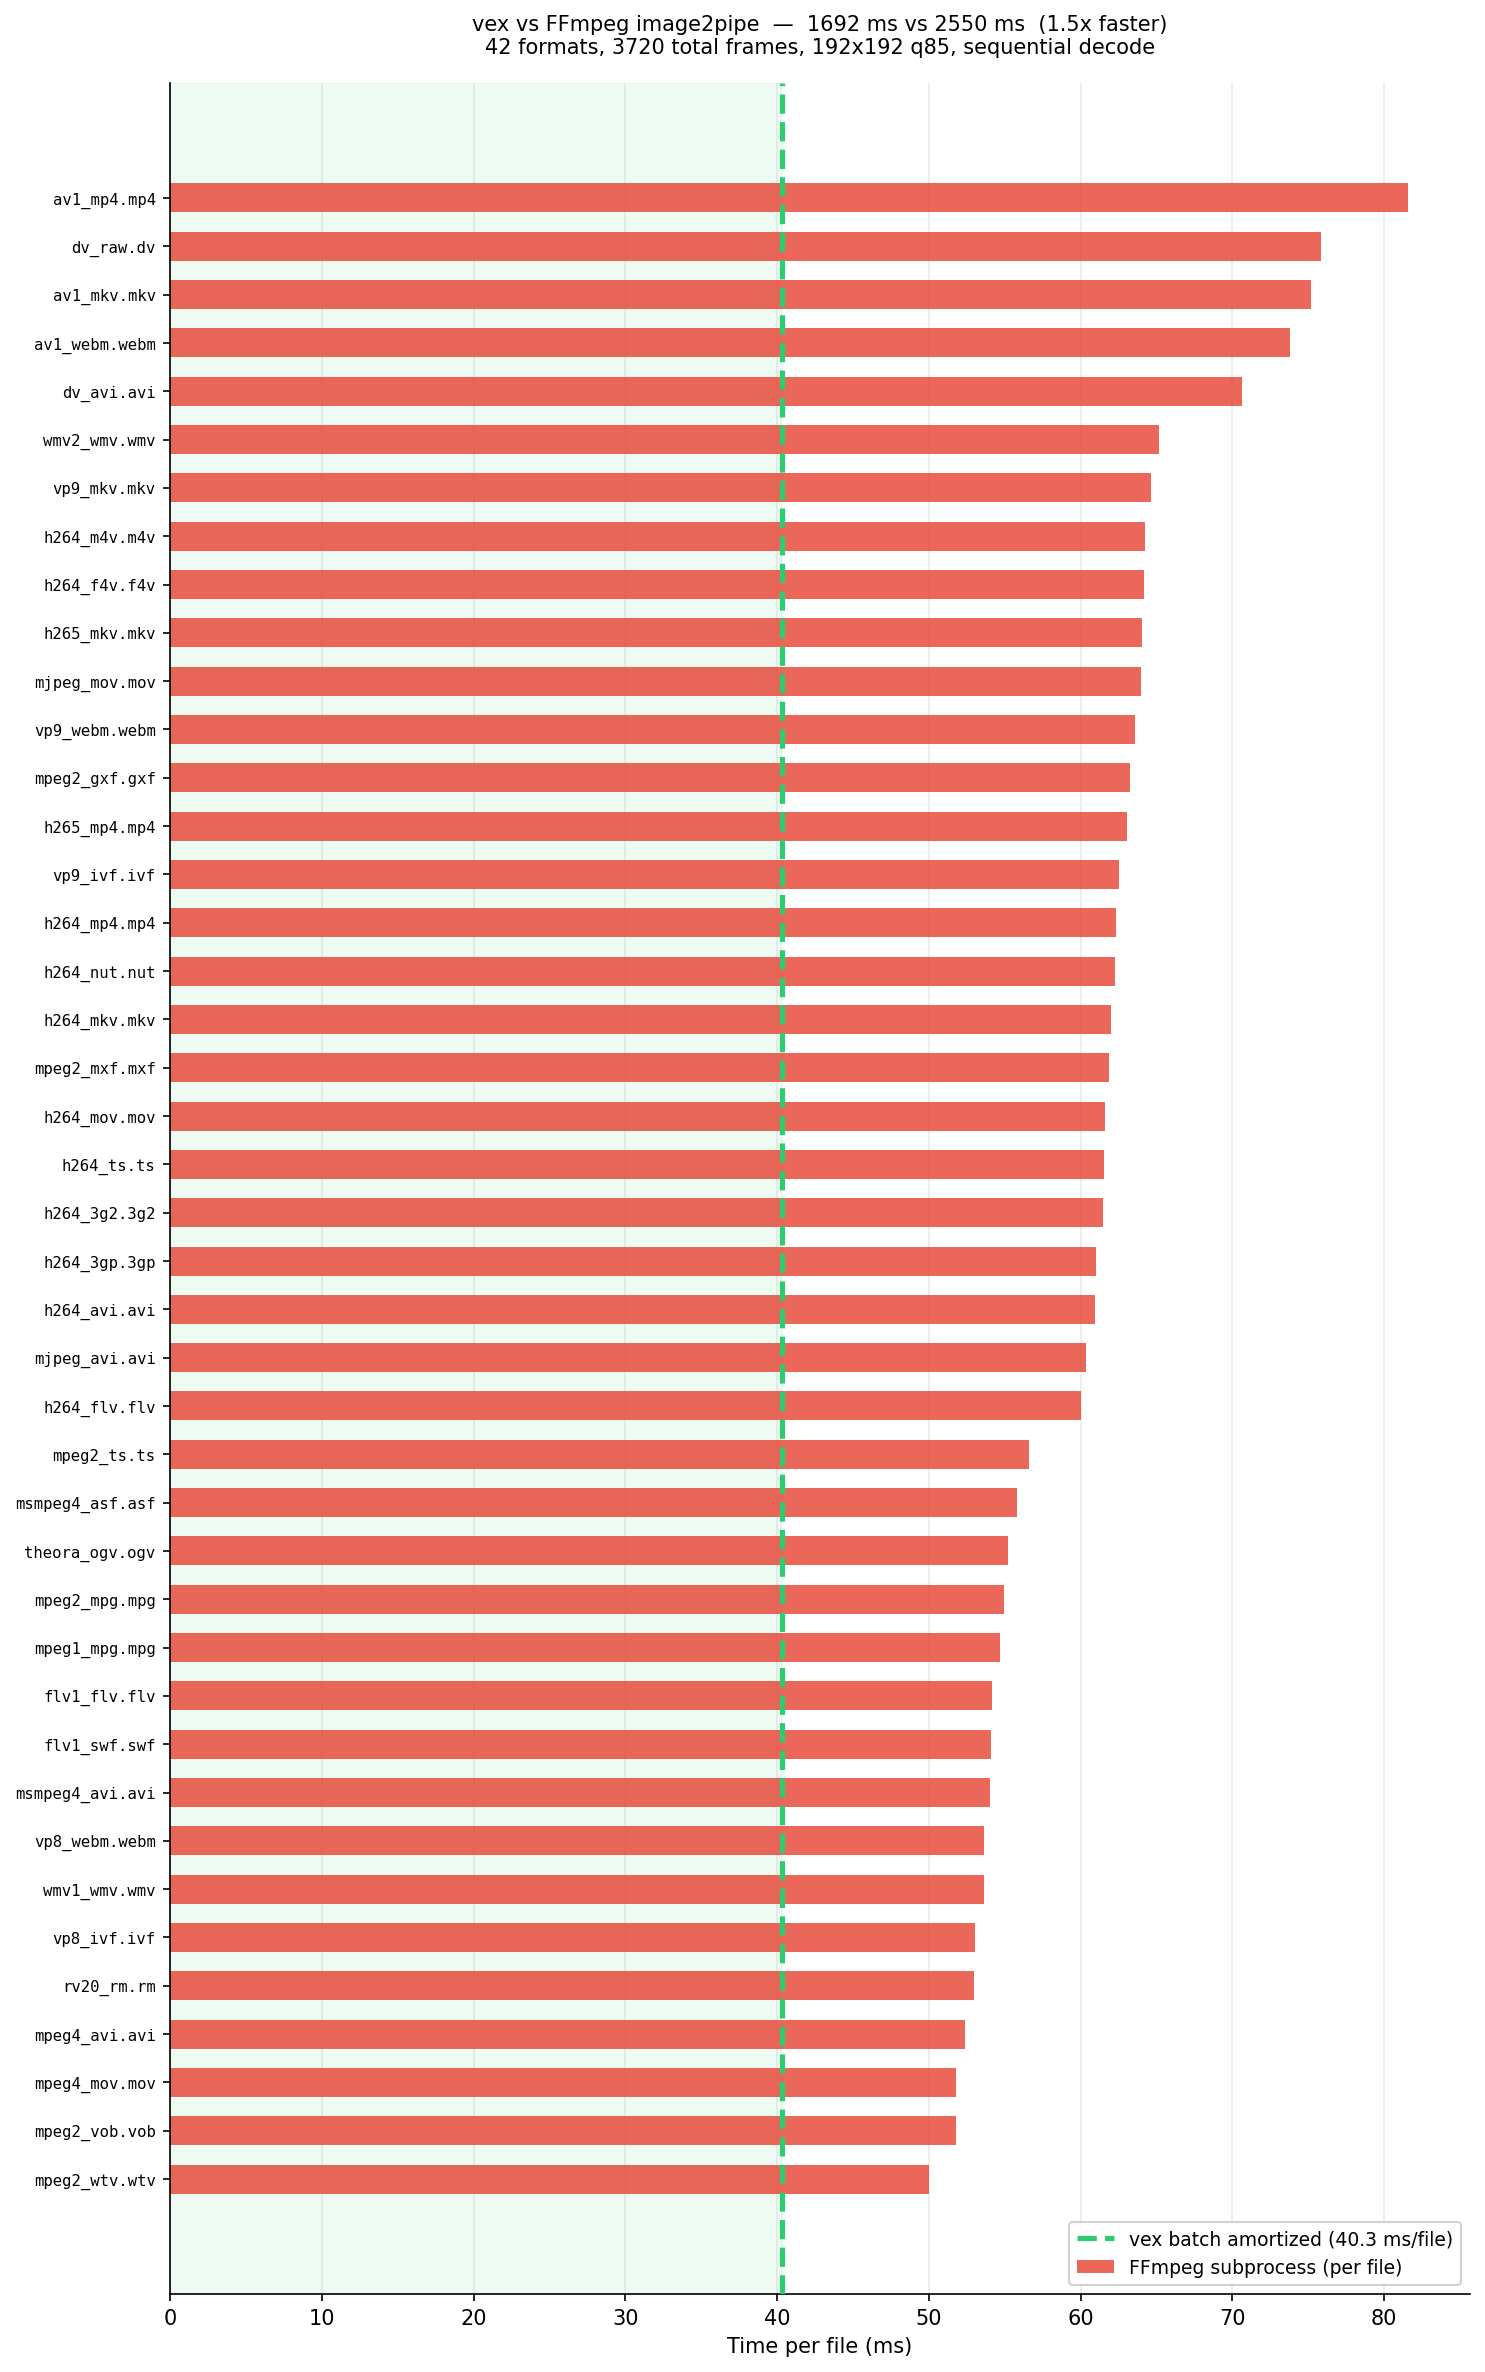
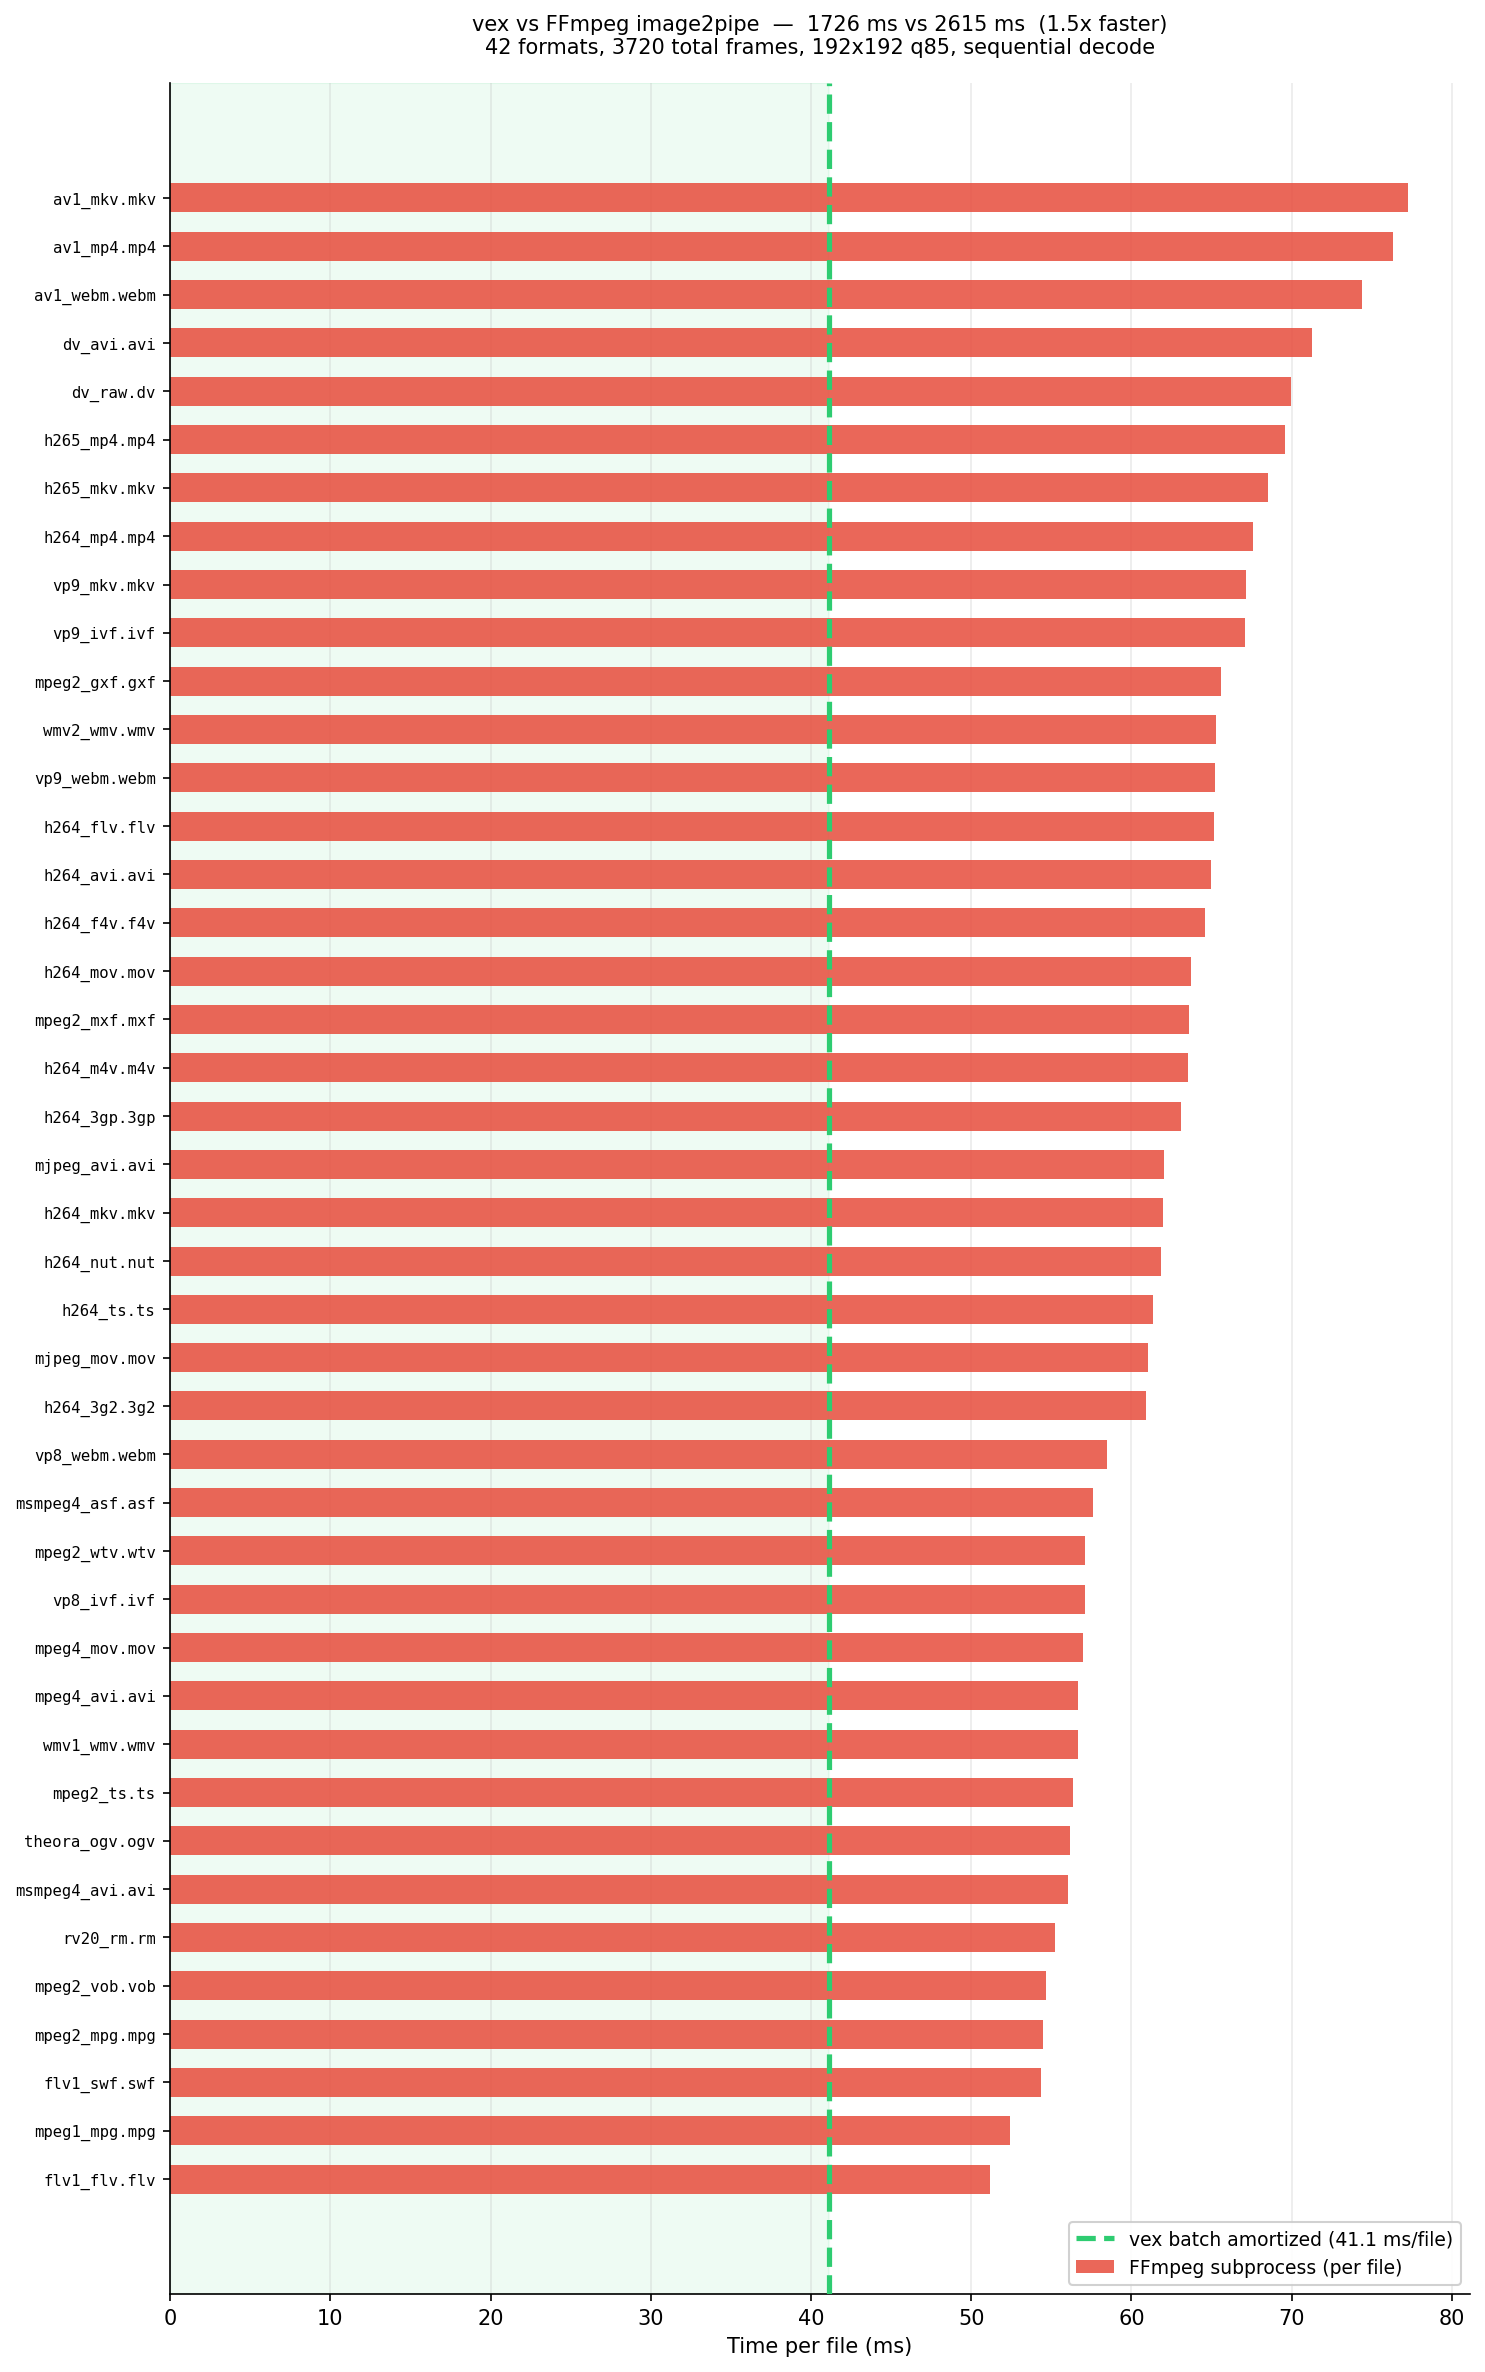
micro ops

diff --git a/python/vex/__init__.py b/python/vex/__init__.py
@@ -35,9 +35,9 @@ class LevelConfig:
 
     Args:
         width:   Target width in pixels.  Use ``0`` (or :data:`NATIVE`) to
-                 keep the video's native width.  Defaults to ``192``.
+                 keep the video's native width.  Defaults to ``NATIVE`` (0).
         height:  Target height in pixels.  Use ``0`` (or :data:`NATIVE`) to
-                 keep the video's native height.  Defaults to ``192``.
+                 keep the video's native height.  Defaults to ``NATIVE`` (0).
         quality: JPEG quality, 1 -- 100.  Passed directly to libjpeg-turbo.
                  Rough guide:
 
@@ -49,7 +49,7 @@ class LevelConfig:
                    artifacts.
                  * **1 -- 19**   : very low — only useful for tiny sprites.
 
-                 Defaults to ``85``.
+                 Defaults to ``100``.
         output:  ``"jpeg_stream"`` — one concatenated JPEG blob per source
                  file (random-access via offset table).
                  ``"sprite_atlas"`` — all files composited into a single
@@ -64,9 +64,9 @@ class LevelConfig:
                        Only used when ``output="sprite_atlas"``.
                        Defaults to ``10``.
     """
-    width: int = 192
-    height: int = 192
-    quality: int = 85
+    width: int = NATIVE
+    height: int = NATIVE
+    quality: int = 100
     output: str = "jpeg_stream"
     in_memory: bool = True
     cache_path: Optional[str] = None
@@ -652,9 +652,10 @@ def batch_decode(
     Args:
         paths:  List of video file paths (mp4, mkv, avi, ts, flv, ...).
         levels: One or more :class:`LevelConfig` describing the output
-                resolutions / formats.  Defaults to a single 192 x 192
-                JPEG stream at quality 85.  Multiple levels produce
-                multiple output resolutions from a single decode pass.
+                resolutions / formats.  Defaults to a single
+                native-resolution JPEG stream at quality 100.  Multiple
+                levels produce multiple output resolutions from a single
+                decode pass.
         max_threads:    Maximum worker threads.  Clamped to
                         ``min(max_threads, len(paths), cpu_count)``.
         keyframes_only: If ``True``, only I-frames are decoded.

diff --git a/tests/test_basic.py b/tests/test_basic.py
@@ -43,9 +43,9 @@ class TestLevelConfig:
 
     def test_level_config_defaults(self):
         cfg = LevelConfig()
-        assert cfg.width == 192
-        assert cfg.height == 192
-        assert cfg.quality == 85
+        assert cfg.width == NATIVE
+        assert cfg.height == NATIVE
+        assert cfg.quality == 100
         assert cfg.output == "jpeg_stream"
         assert cfg.in_memory is True
         assert cfg.cache_path is None
@@ -172,7 +172,11 @@ class TestKeyframeDecode:
     @pytest.mark.parametrize("filename", _FORMAT_FIXTURES)
     def test_keyframe_decode(self, filename):
         path = _fixture_path("formats", filename)
-        results, metrics = batch_decode([path], keyframes_only=True)
+        results, metrics = batch_decode(
+            [path],
+            levels=[LevelConfig(width=192, height=192, quality=85)],
+            keyframes_only=True,
+        )
 
         assert metrics.files_processed == 1
         assert metrics.keyframes_decoded > 0
@@ -192,7 +196,11 @@ class TestSequentialDecode:
     @pytest.mark.parametrize("filename", _FORMAT_FIXTURES)
     def test_sequential_decode(self, filename):
         path = _fixture_path("formats", filename)
-        results, metrics = batch_decode([path], keyframes_only=False)
+        results, metrics = batch_decode(
+            [path],
+            levels=[LevelConfig(width=192, height=192, quality=85)],
+            keyframes_only=False,
+        )
 
         assert metrics.files_processed == 1
         assert metrics.keyframes_decoded > 0

diff --git a/src/types.h b/src/types.h
@@ -28,9 +28,9 @@ enum class OutputFormat {
 // ── Configuration ──────────────────────────────────────────────────────────
 
 struct LevelConfig {
-    int width           = 192;
-    int height          = 192;
-    int quality         = 85;      // JPEG quality 1–100
+    int width           = 0;      // 0 = NATIVE (source resolution)
+    int height          = 0;      // 0 = NATIVE (source resolution)
+    int quality         = 100;     // JPEG quality 1–100
     OutputFormat output  = OutputFormat::JPEG_STREAM;
     bool in_memory      = true;    // false → write to cache_path on disk
     std::string cache_path;        // required when in_memory=false

diff --git a/src/encoder.cpp b/src/encoder.cpp
@@ -41,6 +41,13 @@ size_t JpegEncoder::encode(const uint8_t* y, const uint8_t* u, const uint8_t* v,
     unsigned char* jpeg_buf  = output;
     unsigned long  jpeg_size = static_cast<unsigned long>(capacity);
 
+    // Use fast DCT for quality <= 90 where rounding differences are
+    // absorbed by quantization and produce no visible artifacts.
+    int flags = TJFLAG_NOREALLOC;
+    if (quality <= 90) {
+        flags |= TJFLAG_FASTDCT;
+    }
+
     int ret = tjCompressFromYUVPlanes(
         tj_,
         planes,
@@ -51,7 +58,7 @@ size_t JpegEncoder::encode(const uint8_t* y, const uint8_t* u, const uint8_t* v,
         &jpeg_buf,
         &jpeg_size,
         quality,
-        TJFLAG_NOREALLOC);
+        flags);
 
     if (ret != 0) {
         return 0;

diff --git a/src/bindings.cpp b/src/bindings.cpp
@@ -228,9 +228,9 @@ PYBIND11_MODULE(_vex_core, m) {
             }
             return lc;
         }),
-            py::arg("width")         = 192,
-            py::arg("height")        = 192,
-            py::arg("quality")       = 85,
+            py::arg("width")         = 0,
+            py::arg("height")        = 0,
+            py::arg("quality")       = 100,
             py::arg("output")        = "jpeg_stream",
             py::arg("in_memory")     = true,
             py::arg("cache_path")    = "",

diff --git a/src/index_scanner.cpp b/src/index_scanner.cpp
@@ -93,6 +93,10 @@ static std::vector<KeyframeInfo> scan_decode(AVFormatContext* fmt_ctx, int strea
         return keyframes;
     }
 
+    // Skip non-reference frames — we only need I-frames, so avoid
+    // fully decoding B-frames (often 60-70% of a typical GOP).
+    codec_ctx->skip_frame = AVDISCARD_NONREF;
+
     if (avcodec_open2(codec_ctx, codec, nullptr) < 0) {
         avcodec_free_context(&codec_ctx);
         return keyframes;

diff --git a/src/disk_writer.cpp b/src/disk_writer.cpp
@@ -11,6 +11,9 @@ DiskWriter::DiskWriter(const std::string& path)
     , current_pos_(0)
 {
     file_ = fopen(path.c_str(), "wb");
+    if (file_) {
+        setvbuf(file_, nullptr, _IOFBF, 262144);  // 256KB write buffer
+    }
 }
 
 // ── Destructor ──────────────────────────────────────────────────────────────
